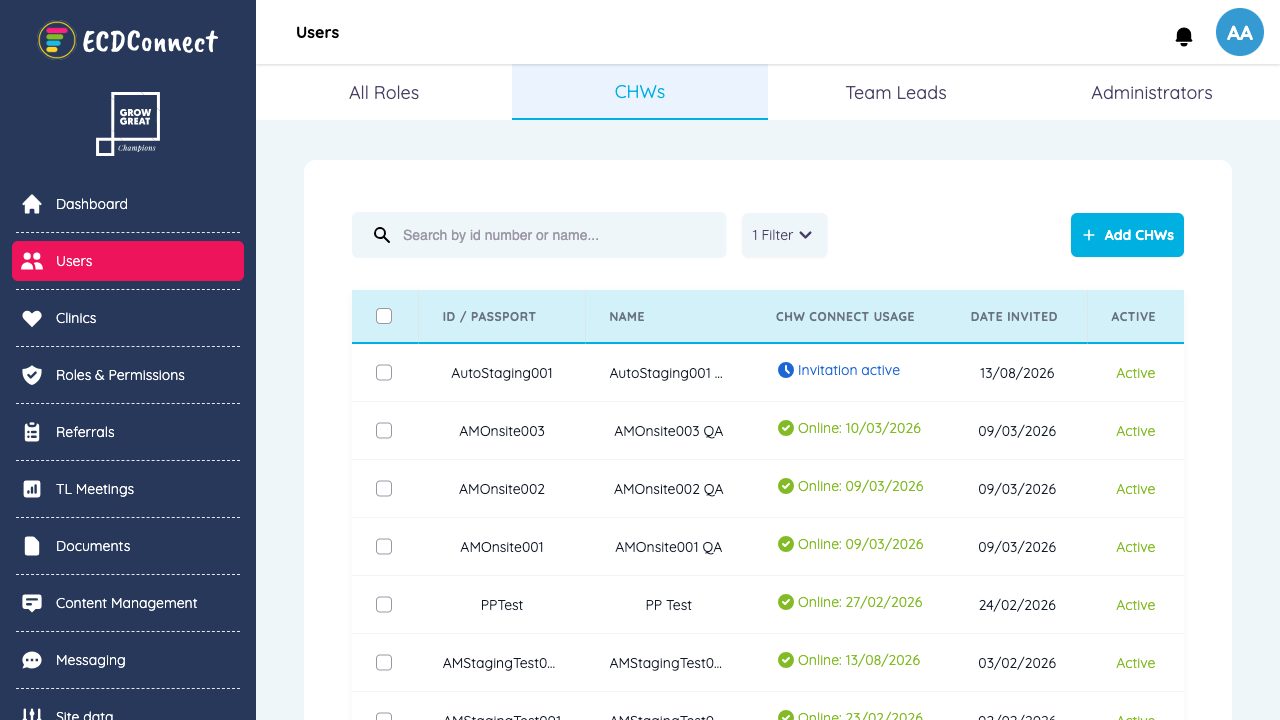
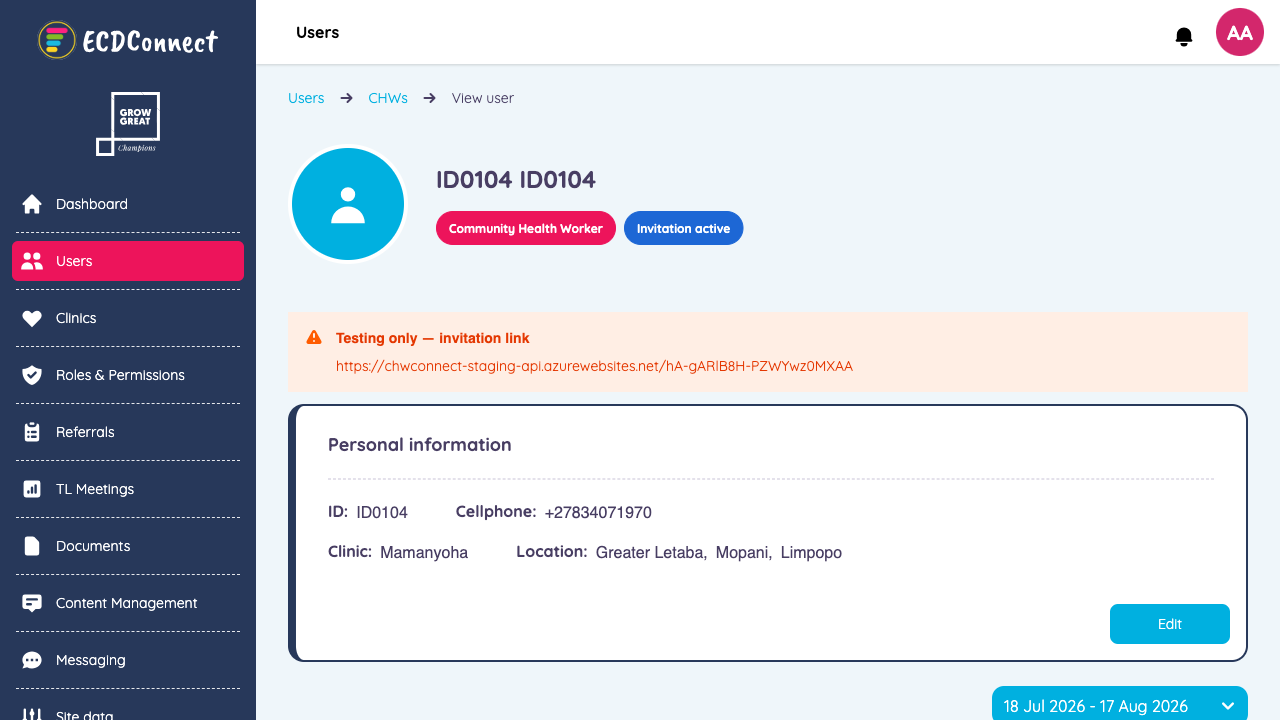
Fix verification code

diff --git a/ggacountcreation.test.js b/ggacountcreation.test.js
@@ -947,6 +947,59 @@ await invitePage.waitForTimeout(5000);
     await page.screenshot({ path: "post_click_user.png", fullPage: true })
     console.log("Screenshot saved as post_click_user.png")
 
+    // ===== Join the community =====
+    // The home screen is a stack of rows: Client folders, Calendar, Training,
+    // Points, then the CHW's clinic. The clinic row is always last, and clicking
+    // it opens the "Connect with the <clinic> team" community join form. We pick
+    // it by position (.last()) rather than matching CHW.clinicLabel by text,
+    // since a different environment/run can assign a different clinic.
+    const homeRows = invitePage.locator(".flex-col.gap-1 > div")
+    await homeRows.last().waitFor({ state: "visible", timeout: 15000 })
+    await homeRows.last().click({ force: true })
+    console.log("Clicked the last home screen row (clinic) to join the community")
+    await invitePage.waitForTimeout(2000)
+
+    // Fill the "Connect with the team" intro form
+    const communityBioInput = invitePage.getByPlaceholder("E.g. I am a champion for children")
+    if ((await communityBioInput.count()) > 0 && (await communityBioInput.isVisible().catch(() => false))) {
+      await communityBioInput.fill(`Automated tester ${generatedId}`).catch(() => {})
+      console.log("Filled community bio")
+    }
+
+    await invitePage.getByText("Yes", { exact: true }).click({ force: true }).catch(() => {})
+    console.log("Opted to share phone & WhatsApp number with the team")
+    await invitePage.waitForTimeout(500)
+
+    await invitePage.getByRole("button", { name: "Save" }).click()
+    console.log("Saved community intro")
+    await invitePage.waitForTimeout(2000)
+
+    // The optional profile photo prompt that follows Save
+    const doThisLaterBtn = invitePage.getByText("Do this later", { exact: true })
+    if ((await doThisLaterBtn.count()) > 0 && (await doThisLaterBtn.isVisible().catch(() => false))) {
+      await doThisLaterBtn.click({ force: true }).catch(() => {})
+      console.log("Skipped the community profile photo prompt")
+      await invitePage.waitForTimeout(2000)
+    }
+
+    // Community section tour is the same two-step tooltip pattern used elsewhere
+    // in this suite ("No, skip" then a possible second "Close" tooltip).
+    const communityTourSkipBtn = invitePage.getByText("No, skip", { exact: true })
+    if ((await communityTourSkipBtn.count()) > 0 && (await communityTourSkipBtn.isVisible().catch(() => false))) {
+      await communityTourSkipBtn.click().catch(() => {})
+      console.log("Dismissed community tour popup (step 1)")
+      await invitePage.waitForTimeout(1000)
+    }
+    const communityTourCloseBtn = invitePage.getByRole("button", { name: "Close" })
+    if ((await communityTourCloseBtn.count()) > 0 && (await communityTourCloseBtn.isVisible().catch(() => false))) {
+      await communityTourCloseBtn.click().catch(() => {})
+      console.log("Dismissed community tour popup (step 2)")
+      await invitePage.waitForTimeout(1000)
+    }
+
+    await invitePage.screenshot({ path: "community_joined.png", fullPage: true }).catch(() => {})
+    console.log("Screenshot saved as community_joined.png")
+
     // Step 10: Open a new folder from the Client folders home screen. Navigating
     // to the home URL first (rather than hunting for a back button) is reliable
     // regardless of what screen the previous folder's Save left us on.

diff --git a/signupaddpreschool5Child.test.js b/signupaddpreschool5Child.test.js
@@ -36,7 +36,25 @@ const { chromium } = require("playwright");
     );
 
     await page.bringToFront();
-    await page.waitForTimeout(30000);
+
+    console.log("Waiting for OTP screen...");
+    await page.getByText("Enter your 6 digit code").waitFor({ timeout: 15000 }).catch(() => {});
+
+    const otpBannerText = await page
+      .getByText(/testing only.*code:/i)
+      .innerText()
+      .catch(() => "");
+    const otpMatch = otpBannerText.match(/(\d{6})/);
+
+    if (otpMatch) {
+      console.log(`Filling OTP code ${otpMatch[1]}...`);
+      await page.getByPlaceholder("------").fill(otpMatch[1]);
+      await page.getByRole("button", { name: "Confirm" }).click();
+      await page.waitForTimeout(2000);
+    } else {
+      console.log("Could not read testing OTP code from page; falling back to fixed wait.");
+      await page.waitForTimeout(30000);
+    }
 
     // ────────────────────────────────────────────────
     // Rest of your ECD Connect preschool + child flow
@@ -44,7 +62,7 @@ const { chromium } = require("playwright");
     console.log("Filling username/password/");
     await page.click('button:has-text("Create a username")');
     await page.fill('input[name="password"]', "Tester_12");
-    await page.fill('input[placeholder="e.g. Nothando_123"]', "BulkSMSOA11");
+    await page.fill('input[placeholder="e.g. Nothando_123"]', "BulkSMSOA13");
     await page.waitForTimeout(1000);
 
     await page.waitForTimeout(2000)
@@ -62,9 +80,9 @@ await page.getByRole("button", { name: "Yes" }).click();
     await page.click('p.font-semibold.text-sm:has-text("Start")');
     await page.click('p.font-medium.text-textMid.font-h4:has-text("Principal")');
 
-    await page.fill('input[placeholder="First name"]', "BulkSMSOA11");
+    await page.fill('input[placeholder="First name"]', "BulkSMSOA13");
     await page.click('p.font-semibold.text-xs:has-text("Enter passport number instead")');
-    await page.fill('input[placeholder="e.g. A012345"]', "BulkSMSOA11");
+    await page.fill('input[placeholder="e.g. A012345"]', "BulkSMSOA13");
 
     await page.click('p.font-semibold.text-sm:has-text("Next")');
 

diff --git a/ggstaging.test.js b/ggstaging.test.js
@@ -475,7 +475,9 @@ const VISIT_DASHBOARD_CHROME = new Set([
 async function recordVisitForFolder(invitePage, { personFirstName, resultLabel, screenshotPrefix, maxRounds = 8 }) {
   // Self-contained: always start from the home screen's Client folders list,
   // regardless of what page a previous call in the same run left us on.
-  await invitePage.goto("https://growgreat-qa-fe.azurewebsites.net/", { waitUntil: "domcontentloaded" })
+  // Derived from the page's current origin rather than hardcoded, since the
+  // invite link's frontend domain can vary by environment.
+  await invitePage.goto(new URL(invitePage.url()).origin + "/", { waitUntil: "domcontentloaded" })
   await invitePage.waitForTimeout(2000)
   await invitePage.getByText("Client folders", { exact: true }).click().catch(() => {})
   await invitePage.waitForTimeout(2000)
@@ -772,7 +774,7 @@ async function recordVisitForFolder(invitePage, { personFirstName, resultLabel, 
     
 // Wait for invitation link
 const invitationLinkLocator = page
-  .locator("text=/https:\\/\\/growgreat-qa-api\\.azurewebsites\\.net\\/.+/")
+  .locator("text=/https:\\/\\/[^\\s]+\\.azurewebsites\\.net\\/.+/")
   .first();
 
 await invitationLinkLocator.waitFor({
@@ -945,7 +947,7 @@ await invitePage.waitForTimeout(5000);
     // to the home URL first (rather than hunting for a back button) is reliable
     // regardless of what screen the previous folder's Save left us on.
     async function openNewFolder(folderType) {
-      await invitePage.goto("https://growgreat-qa-fe.azurewebsites.net/", { waitUntil: "domcontentloaded" })
+      await invitePage.goto(new URL(invitePage.url()).origin + "/", { waitUntil: "domcontentloaded" })
       await invitePage.waitForTimeout(2000)
 
       await invitePage.getByText("Client folders", { exact: true }).click()
